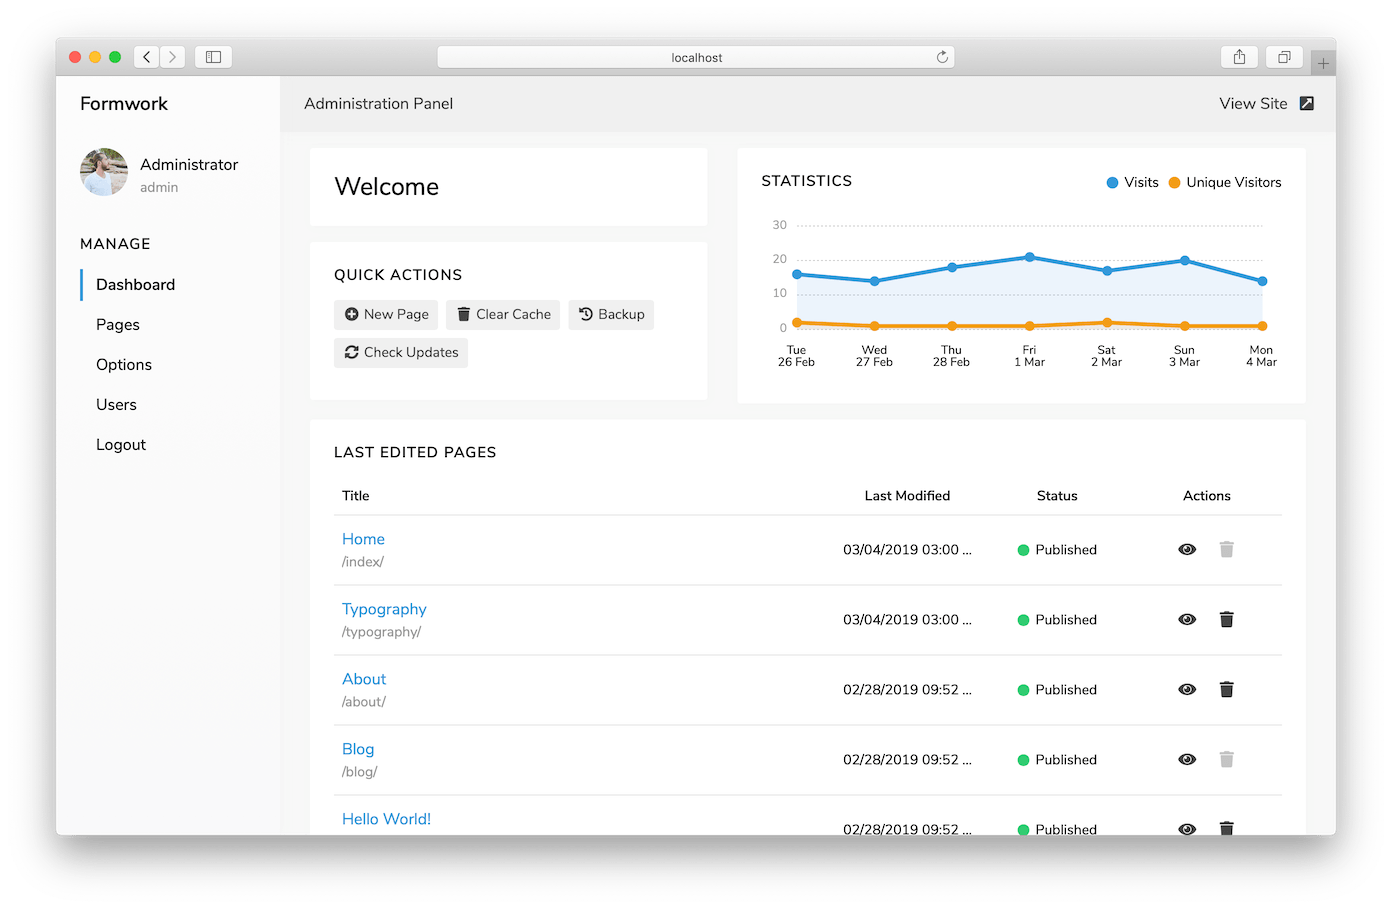
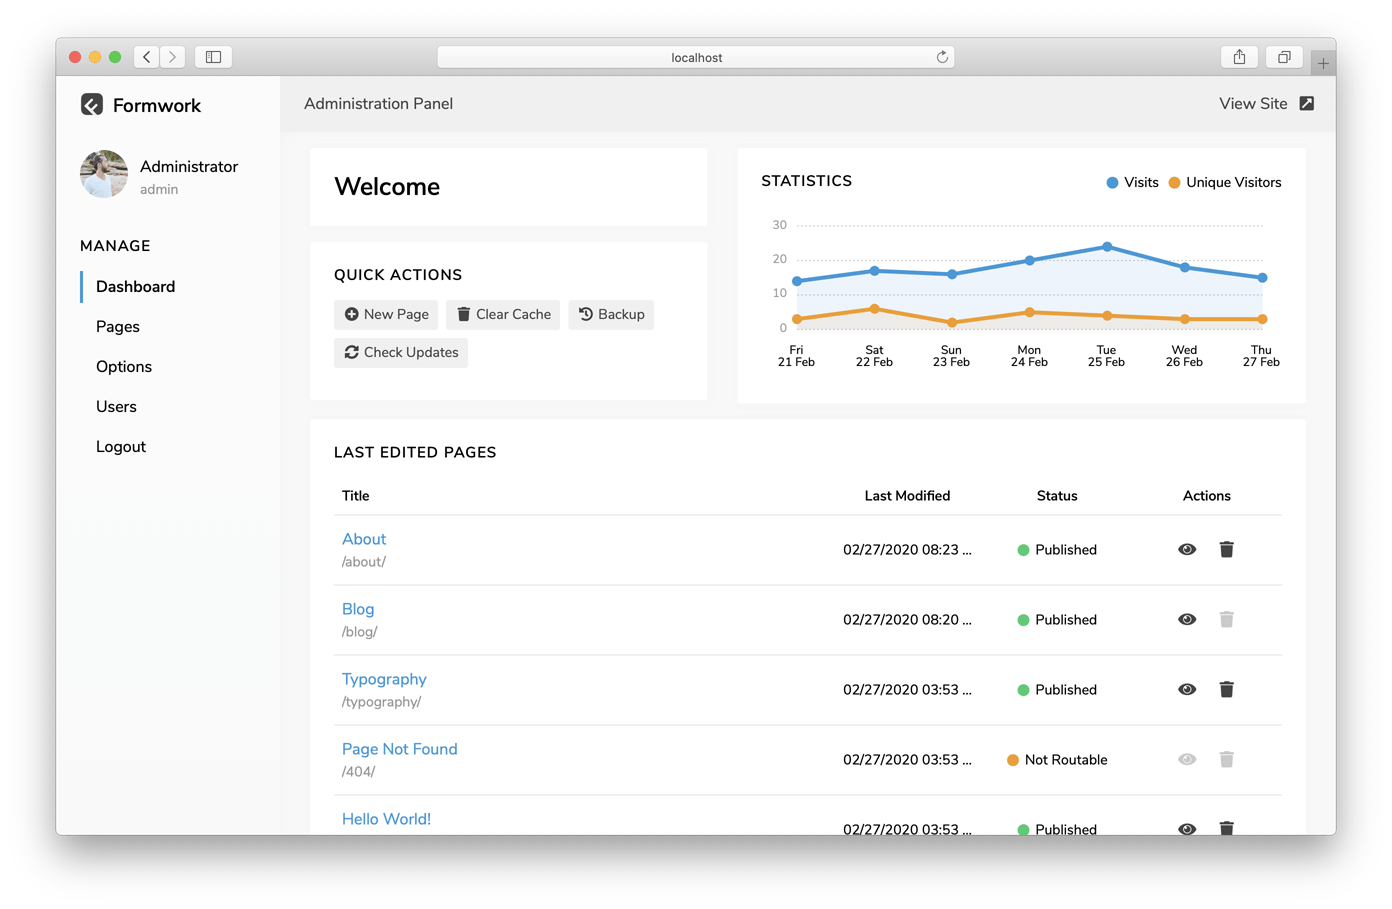
Release 1.5.0

diff --git a/formwork/Core/Formwork.php b/formwork/Core/Formwork.php
@@ -24,7 +24,7 @@ class Formwork
      *
      * @var string
      */
-    public const VERSION = '1.4.7';
+    public const VERSION = '1.5.0';
 
     /**
      * Formwork instance

diff --git a/CHANGELOG.md b/CHANGELOG.md
@@ -1,5 +1,21 @@
 # Changelog
 
+## [1.5.0](https://github.com/getformwork/formwork/releases/tag/1.5.0) (2020-02-27)
+
+**Enhancements**
+
+- **Rewrite admin panel app without jQuery**
+- **Add diacritic-insensitive page search and highlight results in admin panel**
+- Improve calendar positioning
+- Improve notification positioning
+- Check notification type in `Notification::send()`
+- Add pre-filled data to GitHub issue link on internal server errors
+- Add Formwork logo to sidebar
+
+**Bug fixes**
+
+- Fix error when deleting users without avatar
+
 ## [1.4.7](https://github.com/getformwork/formwork/releases/tag/1.4.7) (2020-02-22)
 
 **Bug fixes**

diff --git a/README.md b/README.md
@@ -10,7 +10,7 @@
 
 Formwork is a flat file-based Content Management System (CMS) to make and manage simple sites.
 
-Latest version: [**1.4.7**](https://github.com/getformwork/formwork/releases/latest) | [**Changelog**](CHANGELOG.md)
+Latest version: [**1.5.0**](https://github.com/getformwork/formwork/releases/latest) | [**Changelog**](CHANGELOG.md)
 
 ## Features
 - ⚡ Lightweight
@@ -22,8 +22,7 @@ Latest version: [**1.4.7**](https://github.com/getformwork/formwork/releases/lat
 
 ## Requirements
 - PHP 7.1.3 or higher
-- PHP `zip` extension
-- PHP `gd` extension
+- PHP extensions `fileinfo`, `gd` and `zip`
 
 ## Installing
 
